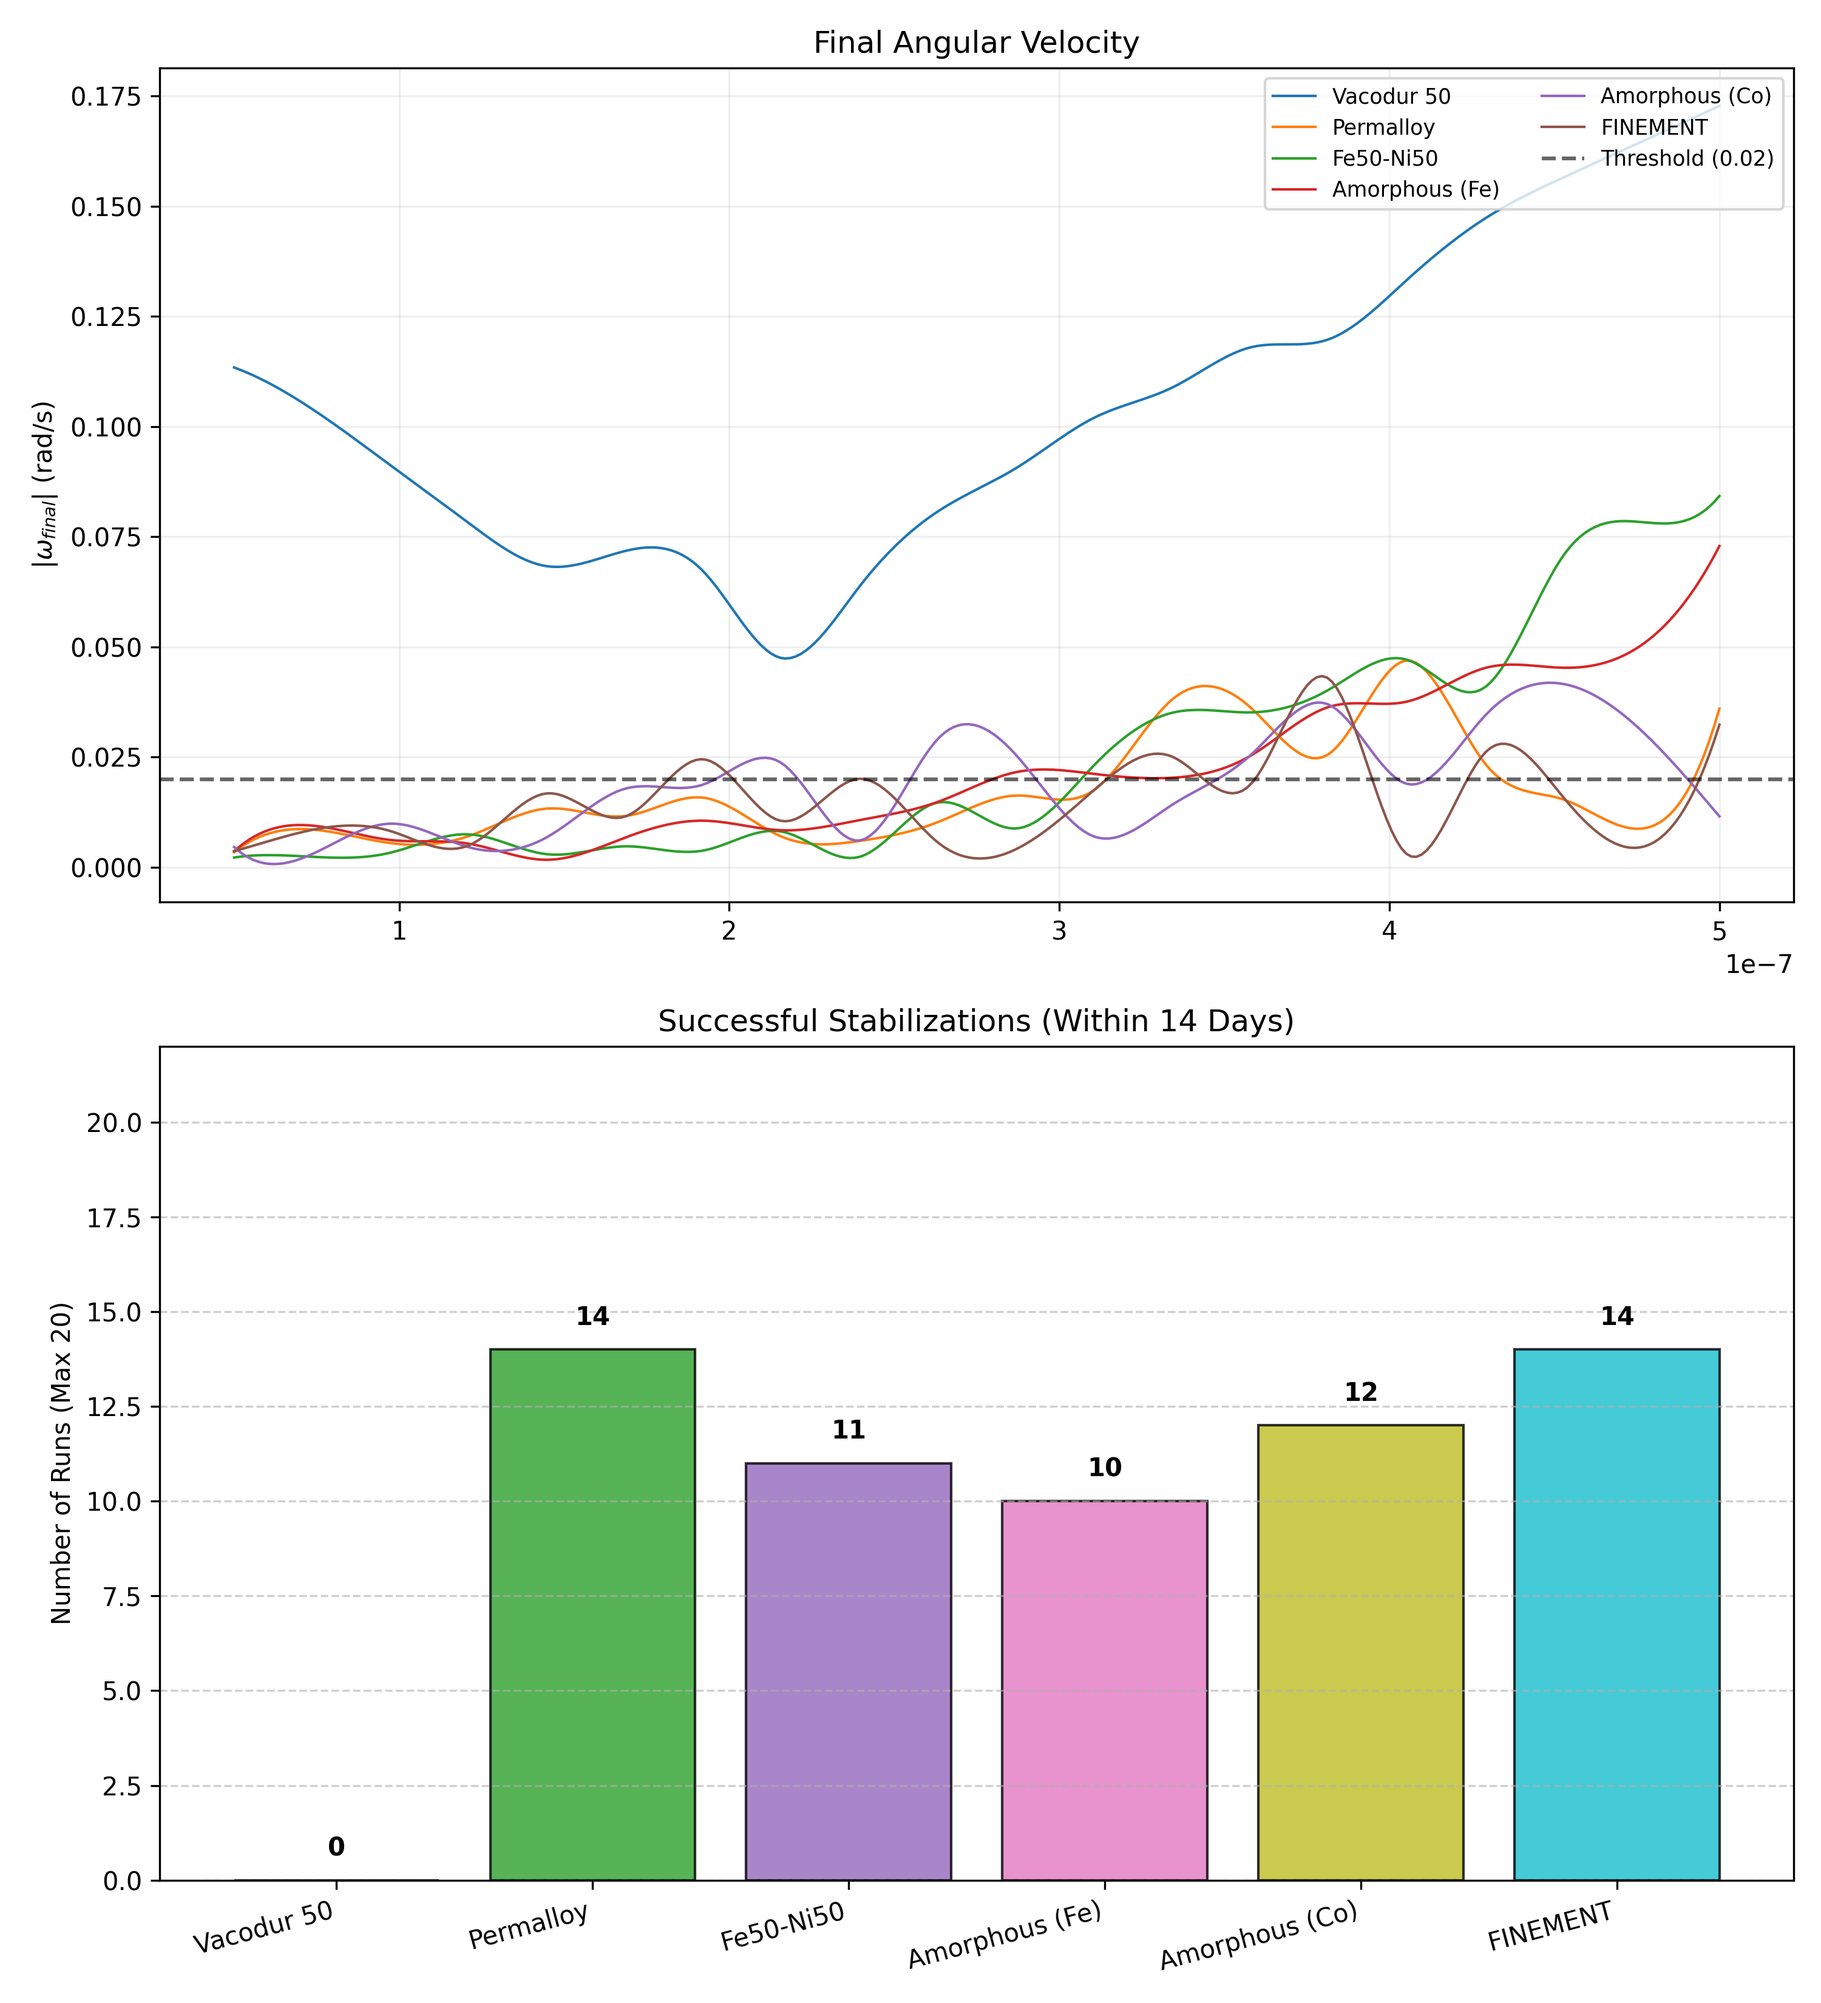
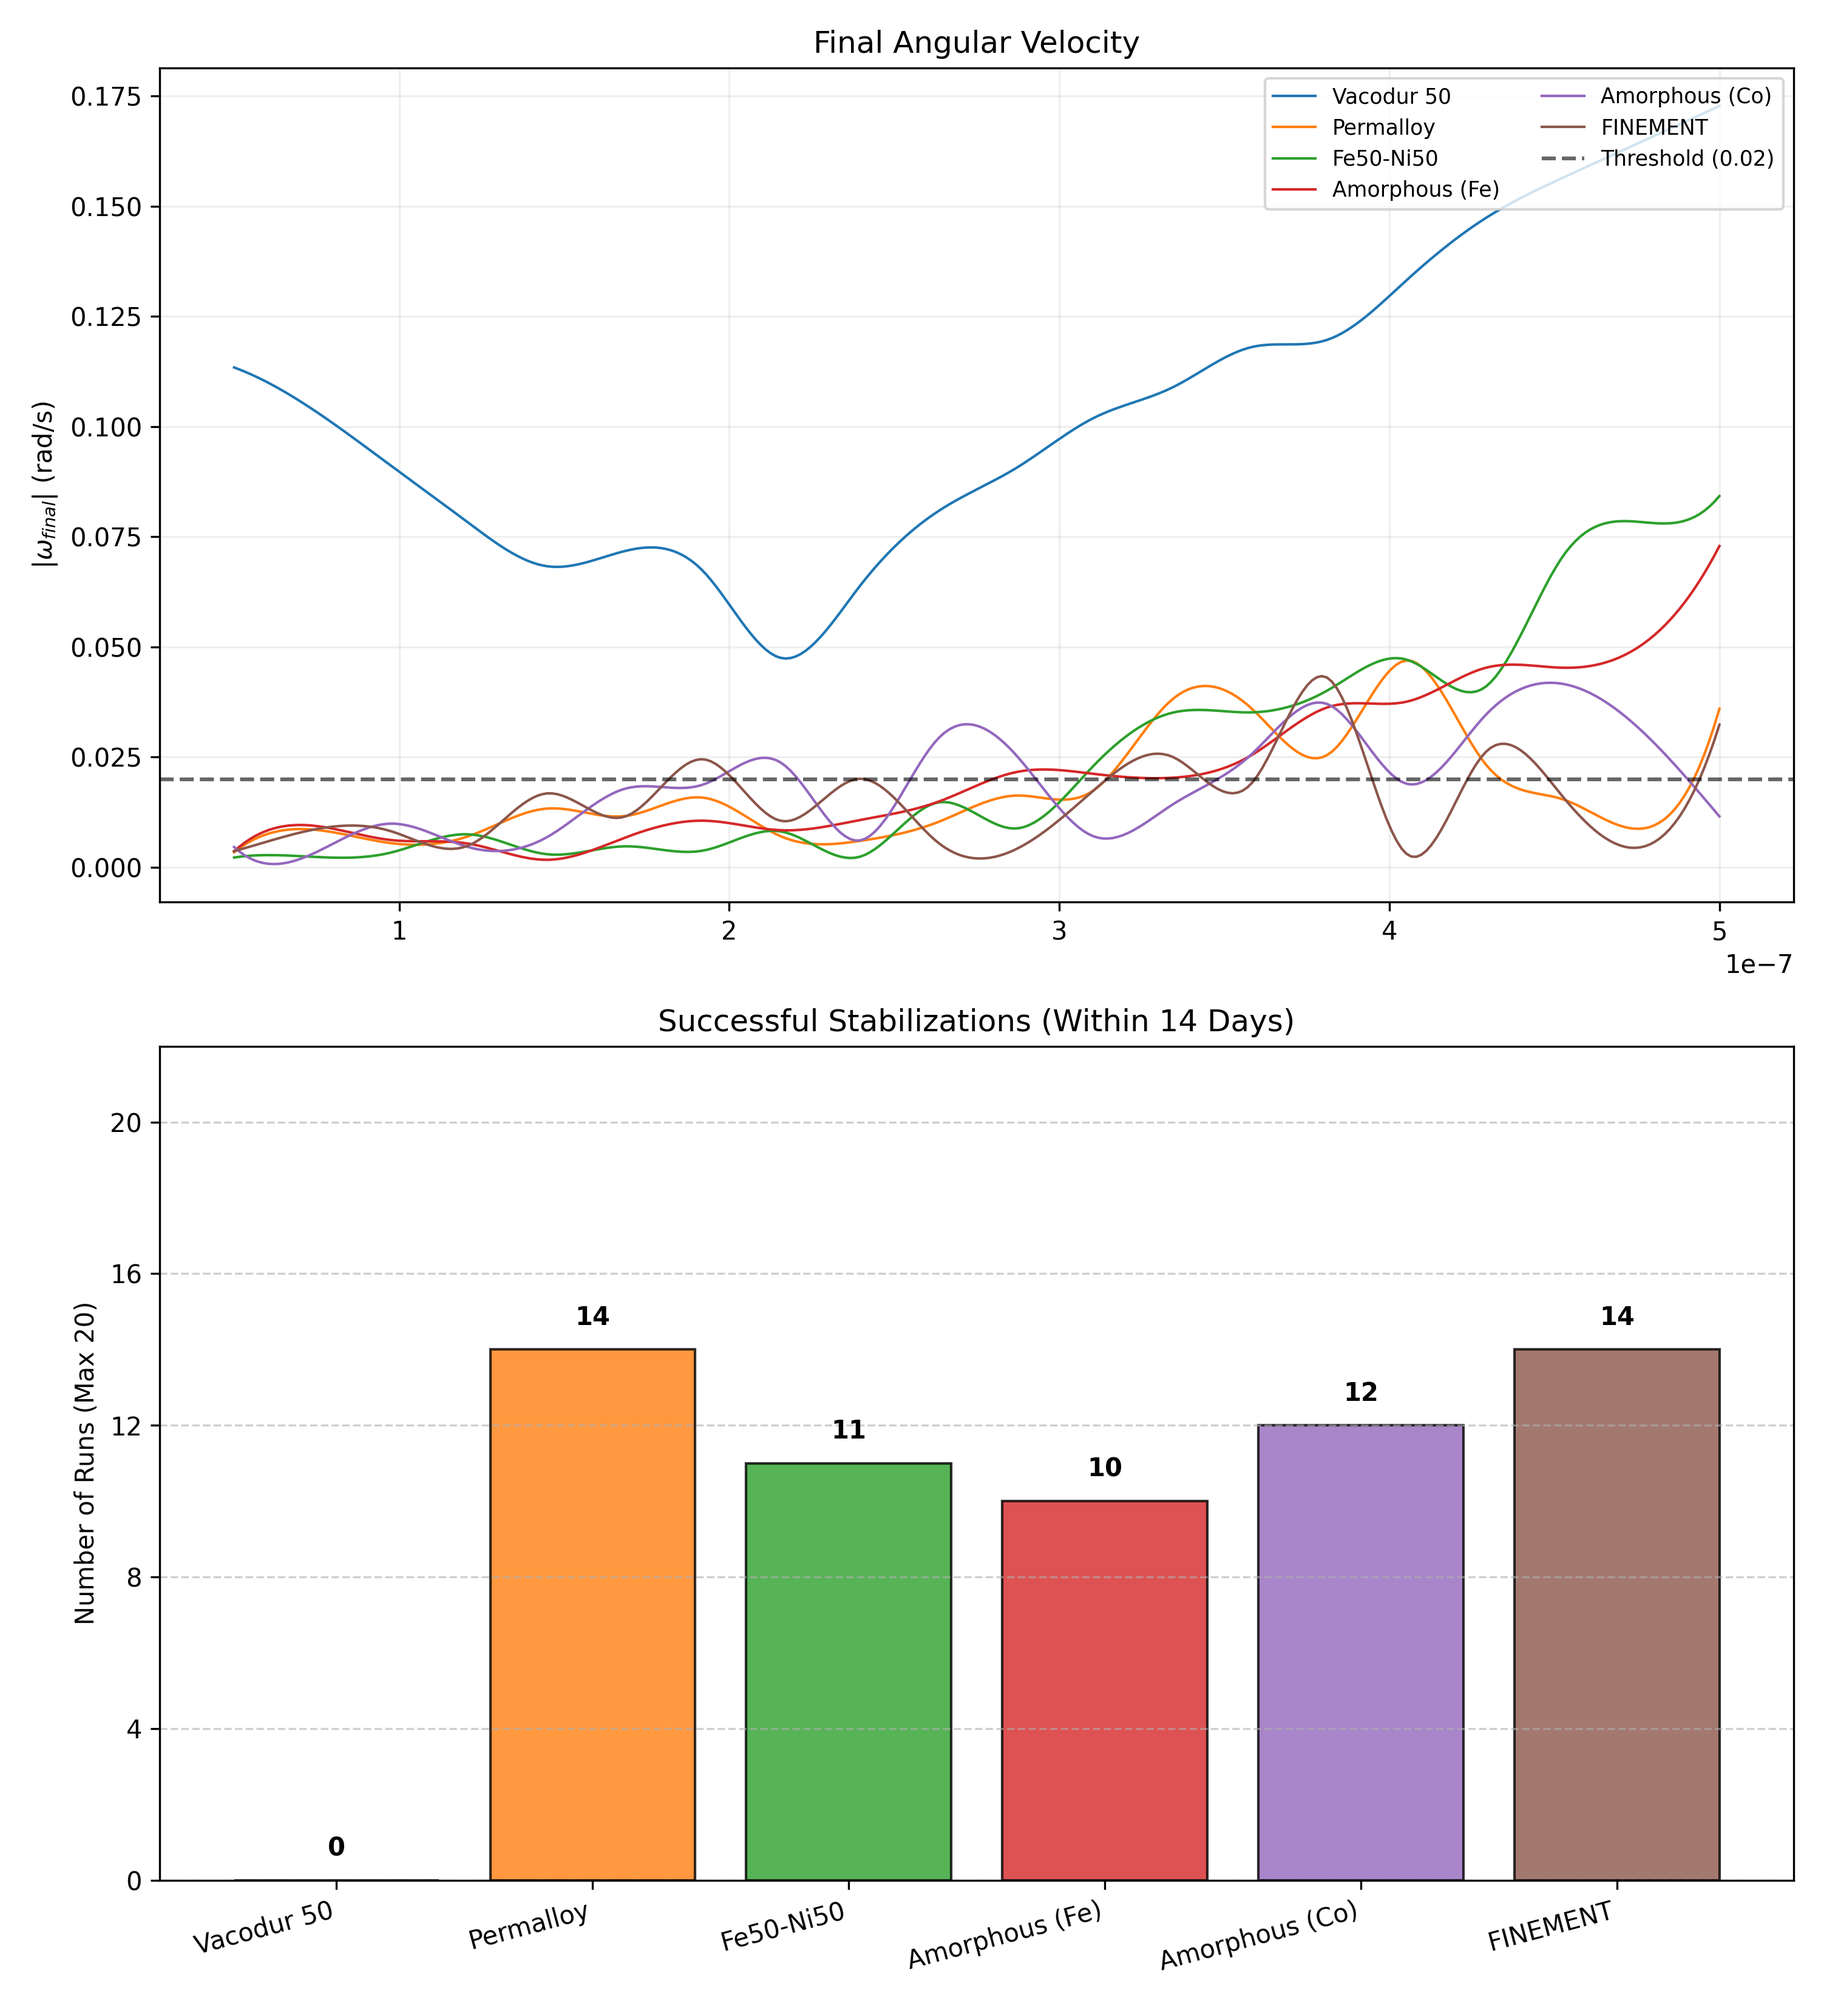
update material comparison figure

Changed region(s): [[0.248, 0.6555, 0.961, 0.9364], [0.031, 0.6555, 0.093, 0.8115], [0.062, 0.6242, 0.093, 0.6555]]

diff --git a/experimental/combine.py b/experimental/combine.py
@@ -1,6 +1,8 @@
 import pandas as pd
 import numpy as np
 import matplotlib.pyplot as plt
+from matplotlib.ticker import MaxNLocator
+from matplotlib.ticker import MultipleLocator
 import glob
 from scipy.interpolate import make_interp_spline
 
@@ -17,6 +19,11 @@ materials = {
 THRESHOLD = 0.02
 rod_volumes = np.linspace(5e-8, 5e-7, 20)
 RESULTS = []
+
+# Create a fixed color mapping for each material
+prop_cycle = plt.rcParams['axes.prop_cycle']
+colors_list = prop_cycle.by_key()['color']
+color_map = {label: colors_list[i % len(colors_list)] for i, label in enumerate(materials.values())}
 
 # Data Processing
 for folder, label in materials.items():
@@ -55,13 +62,15 @@ for label in materials.values():
 
     x = m_data['Volume'].values
     y = m_data['Final_W'].values
+    m_color = color_map[label]
+
     if len(x) > 3: # Need points for spline
         x_smooth = np.linspace(x.min(), x.max(), 300)
         spl = make_interp_spline(x, y, k=3)
         y_smooth = spl(x_smooth)
-        ax1.plot(x_smooth, y_smooth, label=label, linewidth=1)
+        ax1.plot(x_smooth, y_smooth, label=label, linewidth=1, color=m_color)
     else:
-        ax1.plot(x, y, label=label, linewidth=1)
+        ax1.plot(x, y, label=label, linewidth=1, color=m_color)
 
     # ax2.scatter(m_data['Volume'], m_data['Stab_Days'], label=label, s=40, alpha=0.7)
 
@@ -83,14 +92,17 @@ counts = [success_counts.get(label, 0) for label in materials.values()]
 material_labels = list(materials.values())
 
 # 2. Plotting (Replace your ax2 code with this)
-colors = plt.cm.tab10(np.linspace(0, 1, len(material_labels)))
-bars = ax2.bar(material_labels, counts, color=colors, alpha=0.8, edgecolor='black')
+bar_colors = [color_map[label] for label in material_labels]
+bars = ax2.bar(material_labels, counts, color=bar_colors, alpha=0.8, edgecolor='black')
 
 # 3. Formatting
 ax2.set_title(f"Successful Stabilizations (Within {STAB_LIMIT} Days)")
 ax2.set_ylabel("Number of Runs (Max 20)")
 ax2.set_ylim(0, 22) # Extra room for labels
 ax2.grid(axis='y', linestyle='--', alpha=0.6)
+
+ax2.yaxis.set_major_locator(MaxNLocator(integer=True))
+ax2.yaxis.set_major_locator(MultipleLocator(4))
 
 # Add numeric labels on top of bars
 for bar in bars:
